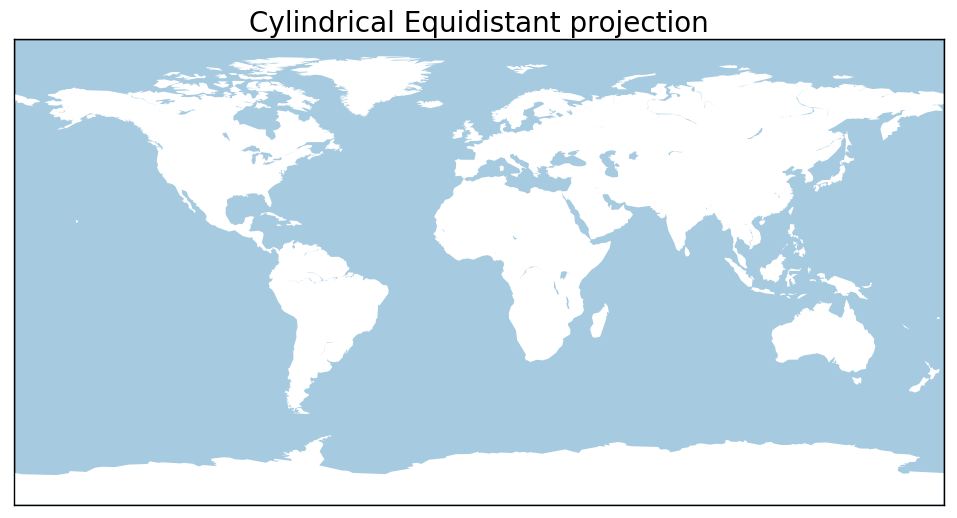
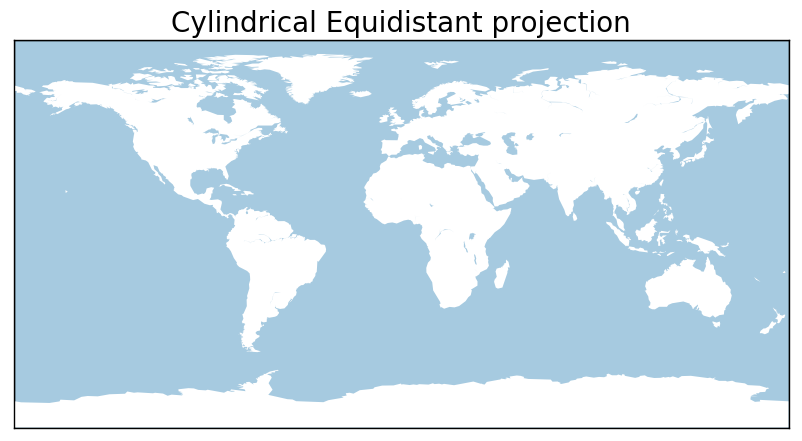
changed fig size

diff --git a/map-games.py b/map-games.py
@@ -54,7 +54,7 @@ for proj in projections:
     error_fraction = np.sqrt(fraction_water * (1.0-fraction_water)/nsample)
     water_frac[proj] = [fraction_water, error_fraction]
     # now save the corresponding image
-    plt.figure(figsize=(12,9))
+    plt.figure(figsize=(10,8))
     m.drawmapboundary(fill_color='#A6CAE0')
     m.fillcontinents(color='white', alpha=1.0)
     plt.title('{} projection'.format(descriptions[proj]), fontsize=20)
